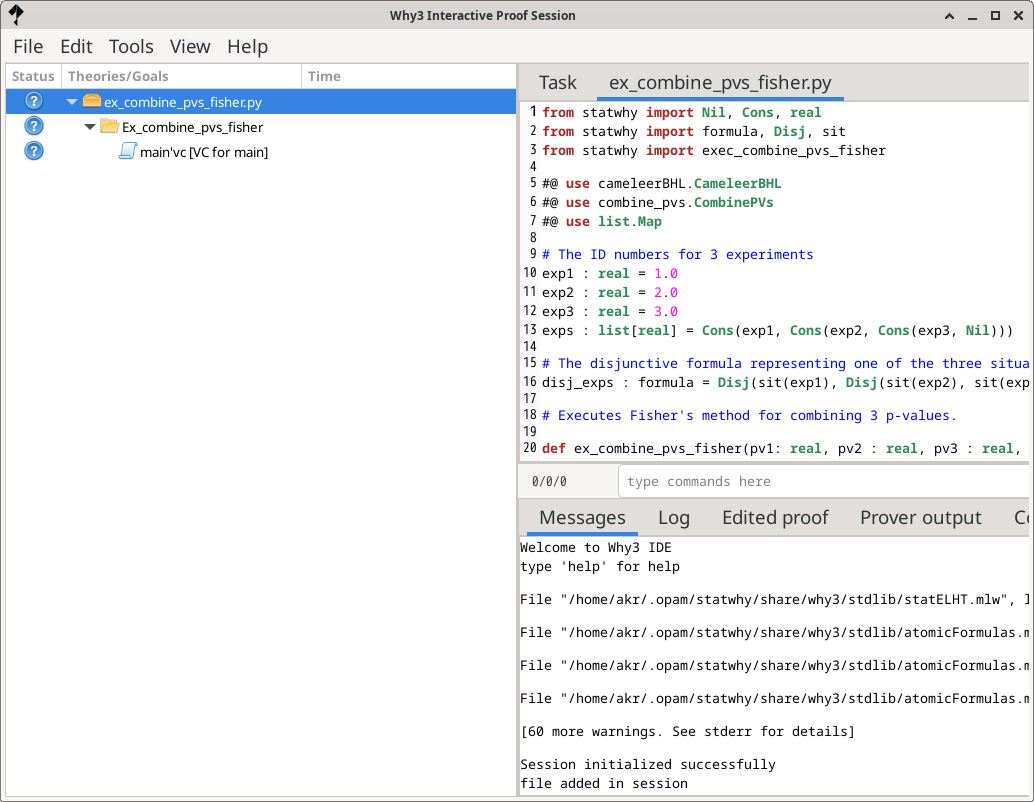
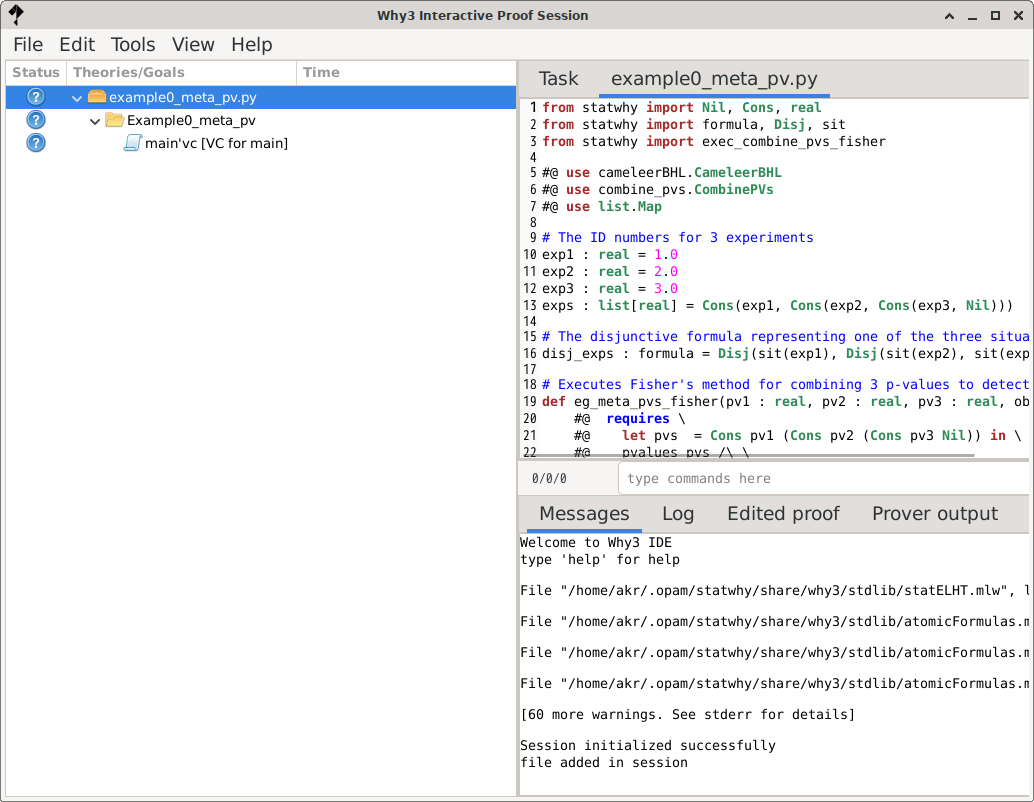
use example0_meta_pv.py as the first example.

Changed region(s): [[0.0, 0.0312, 1.0, 0.9975], [0.3714, 0.0, 0.5571, 0.0312]]

diff --git a/README.md b/README.md
@@ -49,21 +49,21 @@ After installation, examples can be run as follows.
 (`env-why3` and `statwhy-py` must be executed from the Why3-py source directory.)
 
 ```
-% ./env-why3 python3 examples/statwhy-python/meta/ex_combine_pvs_fisher.py
-ex_combine_pvs_fisher p-value : 0.115216
+% ./env-why3 python3 examples/statwhy-python/example0_meta_pv.py
+eg_meta_pvs_fisher p-value : 0.115216
 ```
 
 Verification can be started with the `./statwhy-py` command.
 This starts the IDE of Why3.
 
 ```
-% ./statwhy-py examples/statwhy-python/meta/ex_combine_pvs_fisher.py
+% ./statwhy-py examples/statwhy-python/example0_meta_pv.py
 ```
 
 ![](./doc-statwhy/figures/why3-py-start.png?raw=true "The Why3 IDE screen at start.")
 
 Verification in Why3-py (and StatWhy) is performed by selecting the `StatWhy` item from the context menu of the root node in the left pane.
-The context menu is shown by Right-Click at the root node (shown as question mark and "ex\_combine\_pvs\_fisher.py").
+The context menu is shown by Right-Click at the root node (shown as question mark and "example0\_meta\_pv.py").
 
 All descendants are folded, and the question mark changes to a green check mark.
 This indicates that the verification has succeeded.
